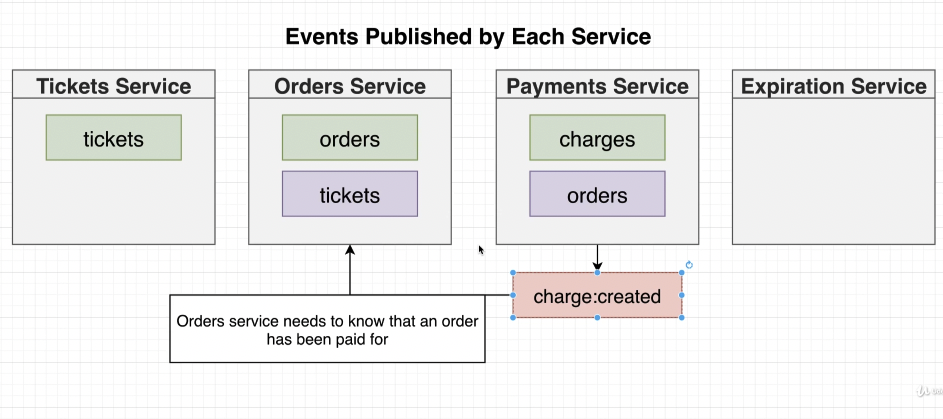
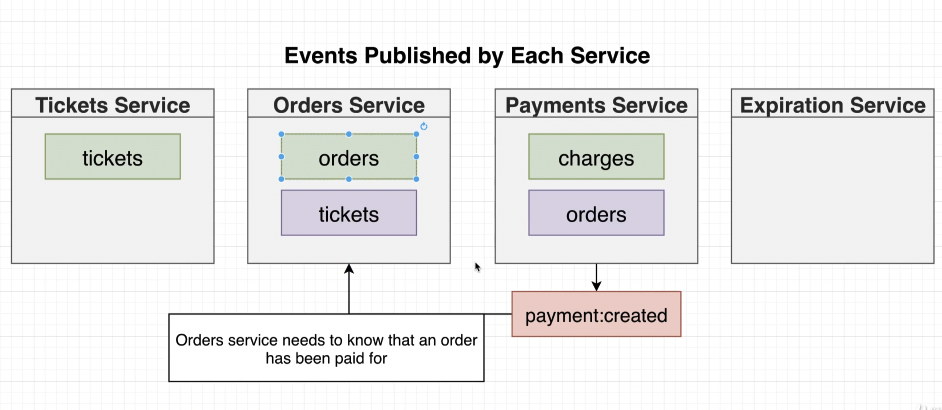
chagne

diff --git a/02_ticketing/orders/src/events/listeners/ticket-updated-listener.ts b/02_ticketing/orders/src/events/listeners/ticket-updated-listener.ts
@@ -1,25 +1,25 @@
-import { Message } from 'node-nats-streaming';
-import { Subjects, Listener, TicketUpdatedEvent } from '@yltickets/common';
-import { Ticket } from '../../models/ticket';
-import { queueGroupName } from './queue-group-name';
+import {Message} from 'node-nats-streaming';
+import {Listener, Subjects, TicketUpdatedEvent} from '@yltickets/common';
+import {Ticket} from '../../models/ticket';
+import {queueGroupName} from './queue-group-name';
 
 export class TicketUpdatedListener extends Listener<TicketUpdatedEvent> {
-  subject: Subjects.TicketUpdated = Subjects.TicketUpdated;
-  queueGroupName = queueGroupName;
+    subject: Subjects.TicketUpdated = Subjects.TicketUpdated;
+    queueGroupName = queueGroupName;
 
-  async onMessage(data: TicketUpdatedEvent['data'], msg: Message) {
-    console.log("TicketUpdatedListener", data);
+    async onMessage(data: TicketUpdatedEvent['data'], msg: Message) {
+        console.log("TicketUpdatedListener", data);
 
-    const ticket = await Ticket.findByEvent(data);  //find by: id and version - 1
+        const ticket = await Ticket.findByEvent(data);  //find by: id and version - 1
 
-    if (!ticket) {
-      throw new Error('Ticket not found');
+        if (!ticket) {
+            throw new Error('Ticket not found');
+        }
+
+        const {title, price, version} = data;
+        ticket.set({title, price, version});
+        await ticket.save();
+
+        msg.ack();
     }
-
-    const { title, price, version } = data;
-    ticket.set({ title, price, version });
-    await ticket.save();
-
-    msg.ack();
-  }
 }

diff --git a/02_ticketing/orders/src/events/listeners/ticket-created-listener.ts b/02_ticketing/orders/src/events/listeners/ticket-created-listener.ts
@@ -1,23 +1,23 @@
-import { Message } from 'node-nats-streaming';
-import { Subjects, Listener, TicketCreatedEvent } from '@yltickets/common';
-import { Ticket } from '../../models/ticket';
-import { queueGroupName } from './queue-group-name';
+import {Message} from 'node-nats-streaming';
+import {Listener, Subjects, TicketCreatedEvent} from '@yltickets/common';
+import {Ticket} from '../../models/ticket';
+import {queueGroupName} from './queue-group-name';
 
 export class TicketCreatedListener extends Listener<TicketCreatedEvent> {
-  subject: Subjects.TicketCreated = Subjects.TicketCreated;
-  queueGroupName = queueGroupName;
+    subject: Subjects.TicketCreated = Subjects.TicketCreated;
+    queueGroupName = queueGroupName;
 
-  async onMessage(data: TicketCreatedEvent['data'], msg: Message) {
-    console.log("TicketCreatedListener", data);
-    const { id, title, price } = data;
+    async onMessage(data: TicketCreatedEvent['data'], msg: Message) {
+        console.log("TicketCreatedListener", data);
+        const {id, title, price} = data;
 
-    const ticket = Ticket.build({
-      id,
-      title,
-      price,
-    });
-    await ticket.save();
+        const ticket = Ticket.build({
+            id,
+            title,
+            price,
+        });
+        await ticket.save();
 
-    msg.ack();
-  }
+        msg.ack();
+    }
 }

diff --git a/02_ticketing/orders/src/events/listeners/payment-created-listener.ts b/02_ticketing/orders/src/events/listeners/payment-created-listener.ts
@@ -1,0 +1,24 @@
+import {Listener, OrderStatus, PaymentCreatedEvent, Subjects,} from '@yltickets/common';
+import {Message} from 'node-nats-streaming';
+import {queueGroupName} from './queue-group-name';
+import {Order} from '../../models/order';
+
+export class PaymentCreatedListener extends Listener<PaymentCreatedEvent> {
+    subject: Subjects.PaymentCreated = Subjects.PaymentCreated;
+    queueGroupName = queueGroupName;
+
+    async onMessage(data: PaymentCreatedEvent['data'], msg: Message) {
+        const order = await Order.findById(data.orderId);
+
+        if (!order) {
+            throw new Error('Order not found');
+        }
+
+        order.set({
+            status: OrderStatus.Complete,
+        });
+        await order.save();
+
+        msg.ack();
+    }
+}

diff --git a/02_ticketing/payments/src/routes/__test__/new.test.ts b/02_ticketing/payments/src/routes/__test__/new.test.ts
@@ -88,6 +88,13 @@ it('returns a 201 with valid inputs - use stripe mock', async () => {
     expect(chargeOptions.amount).toEqual(price * 100);
     expect(chargeOptions.currency).toEqual('usd');
 
+    const payment = await Payment.findOne({
+        orderId: order.id,
+        stripeId: 'stripe_id_test_Id-xxxxxxxx',
+    });
+    expect(payment).not.toBeNull();
+
+
 });
 
 it.skip('returns a 201 with valid inputs - use stripe api', async () => {

diff --git a/02_ticketing/payments/src/routes/new.ts b/02_ticketing/payments/src/routes/new.ts
@@ -54,7 +54,7 @@ router.post(
             stripeId: payment.stripeId,
         });
 
-        res.status(201).send({id: payment.id});
+        res.status(201).send({id: payment.id, stripeId: charge.id, orderId: payment.orderId});
     }
 );
 

diff --git a/02_ticketing/Readme.md b/02_ticketing/Readme.md
@@ -400,6 +400,7 @@ export {expirationQueue};
 ```
 
 # Payment
+
 ![payment svc](./jpg/payment-svc.png)
 ![events for payments](./jpg/payments-events.png)
 ![payments flow stripes API](./jpg/payments_stripes.png)
